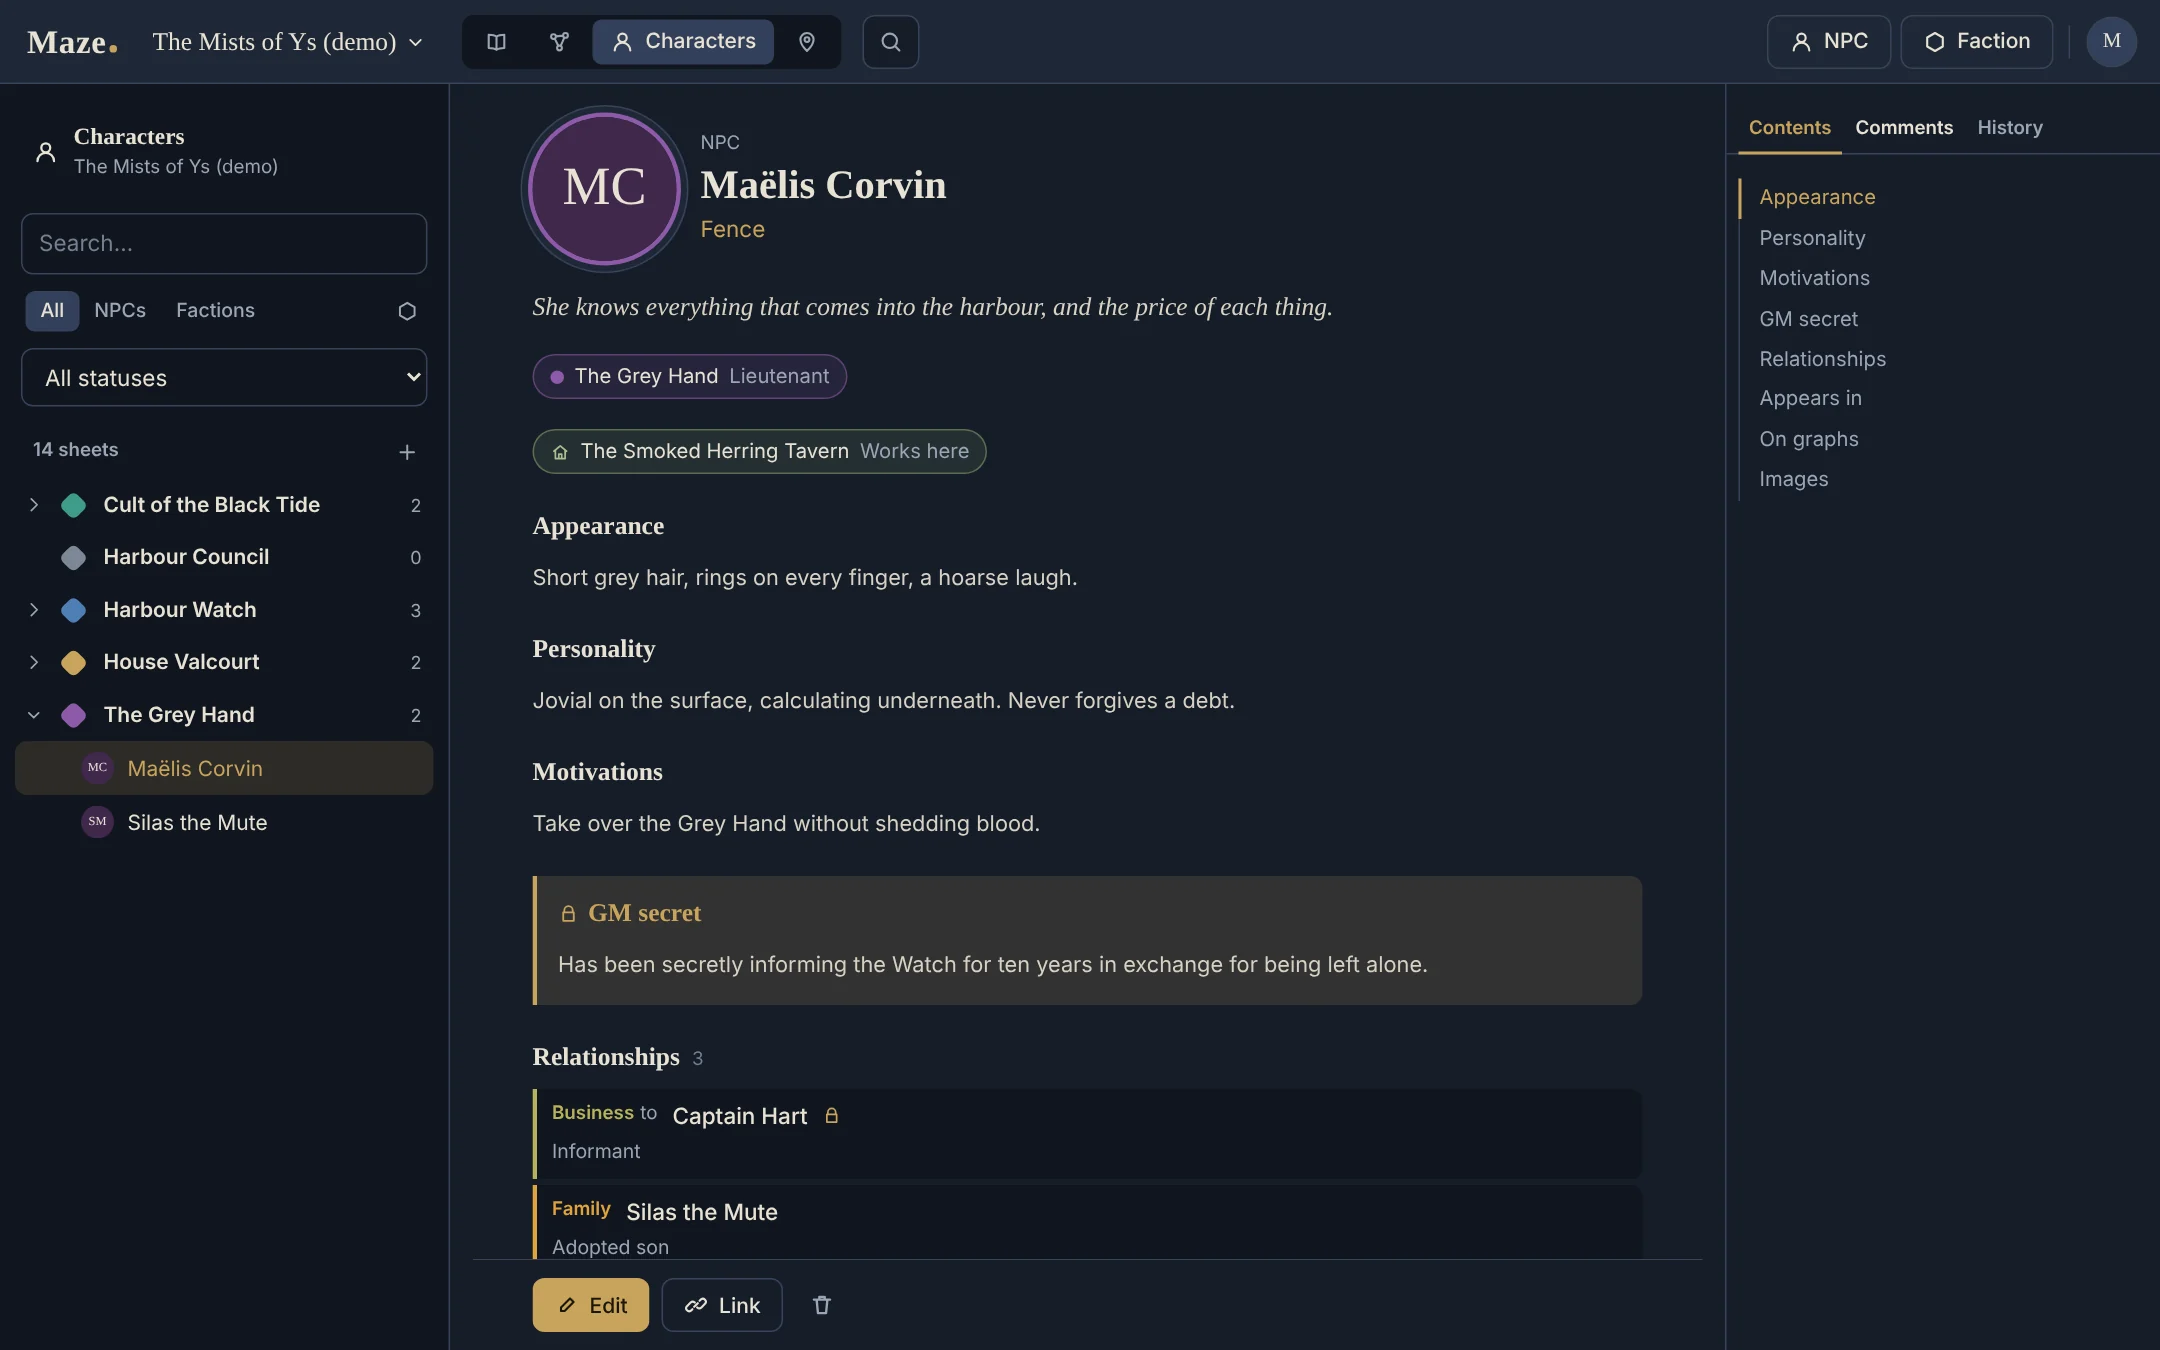
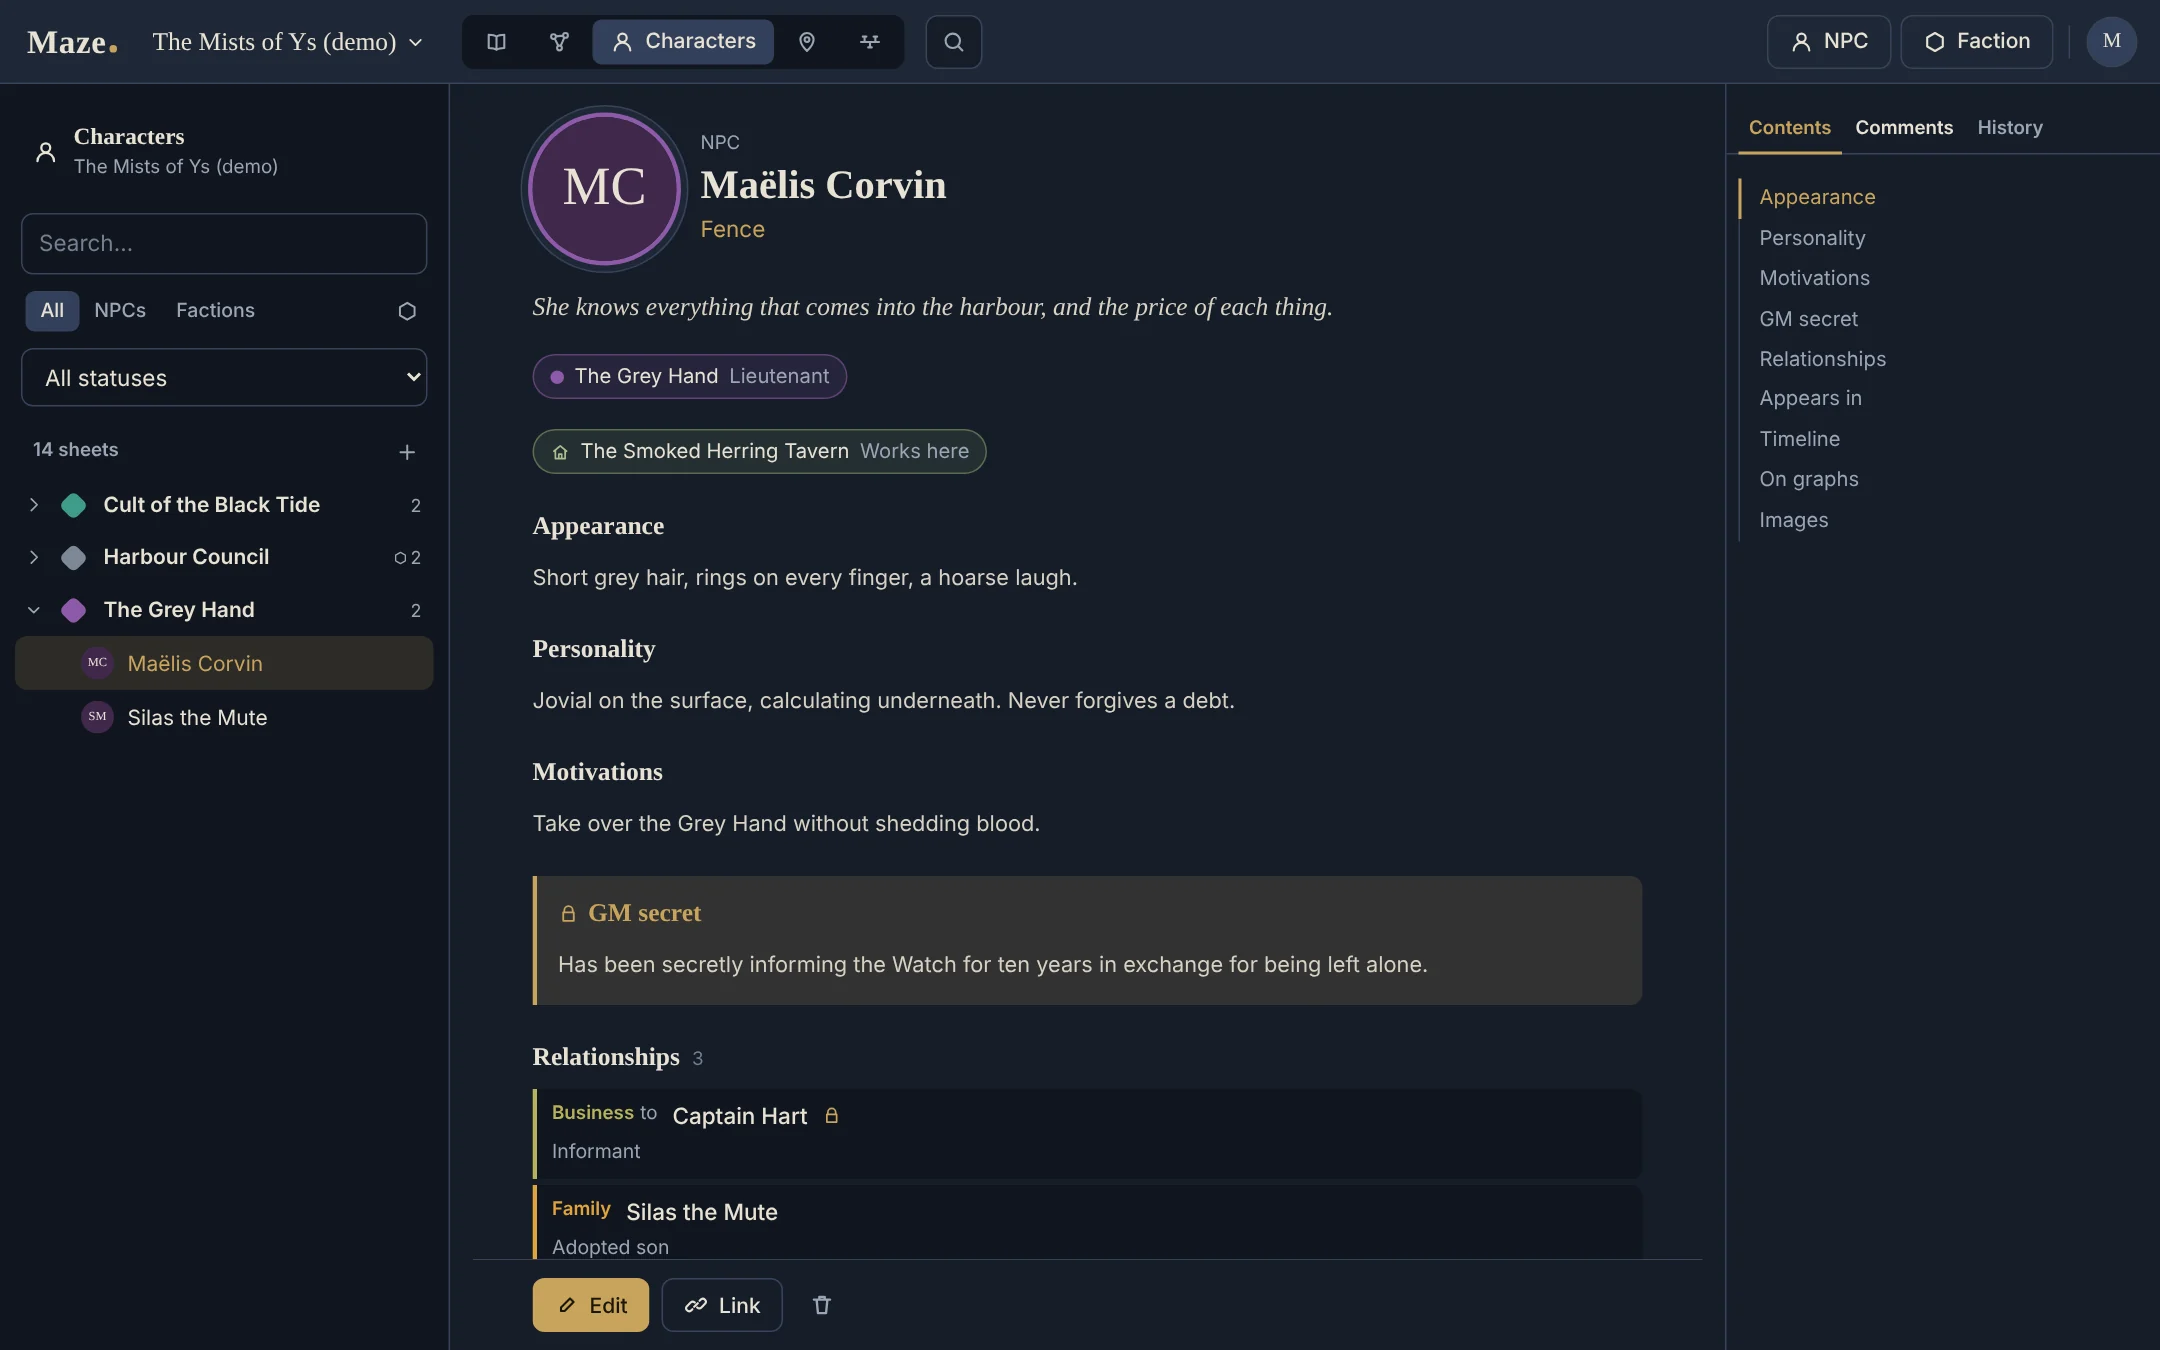
Site : captures de la chronologie (frise normale et compacte) et jeu de captures refait
capture.mjs active la chronologie sur la campagne de démo, crée douze événements (dates libres, six étiquettes, mentions, encadrés secrets) et prend la frise normale (mini-carte, panneau Étiquettes) et la frise compacte, un événement ouvert. Les autres captures sont refaites : onglet Chronologie dans la barre, index des personnages en arbre de factions.

Claude-Session: https://claude.ai/code/session_0162MWmbjtAjDRDnKkaNGTdw

Changed region(s): [[0.0, 0.4356, 0.2171, 0.6222], [0.8065, 0.3111, 0.8685, 0.4044]]

diff --git a/site/README.md b/site/README.md
@@ -19,7 +19,7 @@ GitHub setting, once: Settings > Pages > Build and deployment > Source: GitHub A
 
 1. creates a temporary data folder and loads the English demo campaign (`python -m maze.demo --lang en`);
 2. starts Maze on `127.0.0.1` like `frontend/e2e/run-all.sh` (`MAZE_DEFAULT_LOCALE=en`);
-3. creates the first administrator from the setup screen, then adds through the API what the demo lacks: a campaign page, scenarios with read-aloud and GM secret boxes, a comment thread, an interactive map (background drawn by the script) with pins, a co-GM account and a backup;
+3. creates the first administrator from the setup screen, then adds through the API what the demo lacks: a campaign page, scenarios with read-aloud and GM secret boxes, a comment thread, an interactive map (background drawn by the script) with pins, the timeline turned on with a dozen events, a co-GM account and a backup;
 4. takes the screenshots in an `en-US` browser, 1440 x 900 at device scale 1.5, converts them to WebP (Pillow) and writes them to `site/img/`;
 5. stops the server and deletes the temporary folder.
 
@@ -40,8 +40,10 @@ Requirements: the server dependencies (`backend/requirements.txt`, Pillow includ
 | campaign.webp | Campaign page with the scenario tree |
 | editor.webp | Scenario page: read-aloud and GM secret boxes, a co-GM's live selection, comment thread |
 | graph.webp | Relationship graph of a scenario's cast |
-| npc.webp, faction.webp | NPC and faction sheets |
+| npc.webp, faction.webp | NPC and faction sheets, beside the Characters index arranged as a faction tree |
 | map.webp | Interactive map with pins, a place open with its ring of sub-places |
+| timeline.webp | Timeline strip with its mini-map, the Tags panel open and an event open on the side |
+| timeline-compact.webp | Compact timeline strip (staggered, names written diagonally), an event open on the side |
 | backups.webp | Administration > Backups |
 
 Look at every image before committing: the script fails if a screen does not appear, but not if a new interface text is left in French or a layout change hides something. The page gives each image's size (`width` and `height`) and a text alternative: update them if a screen changes.
